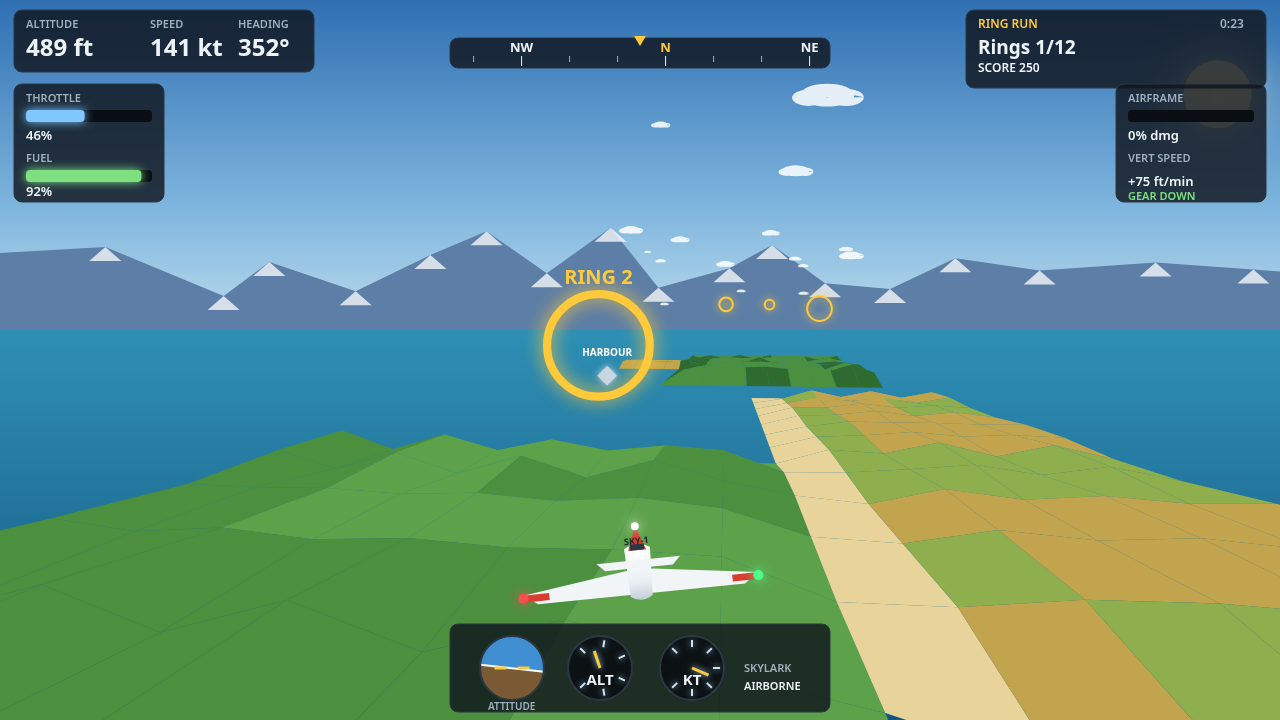
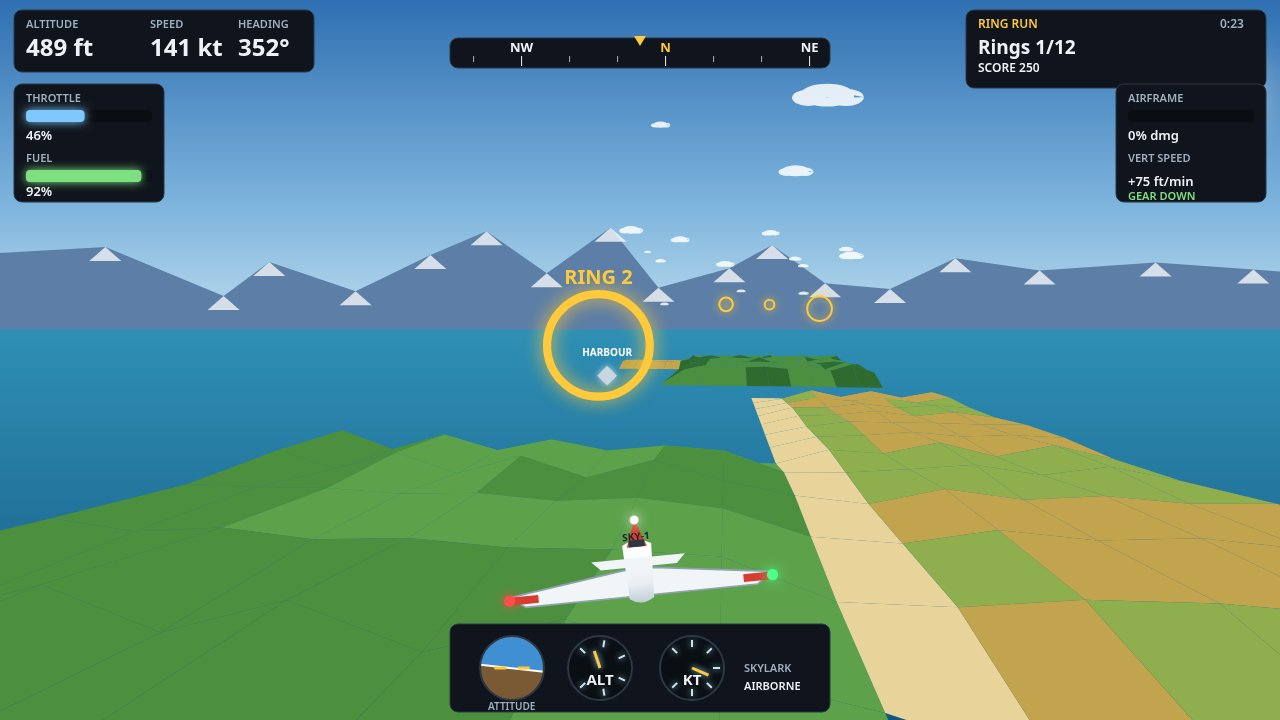
Round 2: runway reads, clean landing shot, no more giant ring
- Render the runways as explicit projected quads (surface, edge lines,
  threshold bars): the 28 m strip fell between the 60 m ground samples
  and was invisible, leaving only its number floating over grass.
- Landing shot now flies the Island Landing sortie on a real glide
  slope with stepped throttle and lands on the strip (score 1290, 0%
  damage) instead of barrelling in at 179 kt in a Ring Run HUD.
- Skip rings closer than 50 m: flying through a hoop used to paint a
  giant green circle over the whole end screen.
- HUD panels are solid now: the bright sun showed through the
  translucent panels as a dark disc. Also capped the runway-number font,
  which exploded as the plane reached the threshold.
- Skylark slightly larger with a wing outline so she reads against
  bright fields; fixed a lineWidth leak from the runway edges that
  turned the compass ticks into thick white bars.
- Regenerated all four screenshots from the game in headless Chromium.

diff --git a/game/src/render.js b/game/src/render.js
@@ -150,13 +150,66 @@ function drawGround(ctx, world, cam, plane, heading) {
     }
   }
 
-  drawRunwayMarkings(ctx, world, cam, heading, plane);
+  drawRunway(ctx, world, cam, heading, plane);
 }
 
-function drawRunwayMarkings(ctx, world, cam, heading, plane) {
-  // Centreline dashes and threshold bars on any runway in view.
+function drawRunway(ctx, world, cam, heading, plane) {
+  // The runway is painted as its own projected quad: the ground strips
+  // sample the ground every 60 m, so a 28 m wide strip falls between
+  // samples and never appears — the strip used to be invisible, with only
+  // its number floating over the grass. Painting it explicitly keeps the
+  // runway readable from the title screen to the final approach.
+  // Everything here is wrapped in save/restore: the edge lines are sized
+  // from the projection scale, which is huge when the plane sits on the
+  // strip, and that lineWidth must never leak into the HUD drawn after.
+  ctx.save();
   for (const runway of [world.homeRunway, world.farRunway]) {
     if (plane.z > runway.z1 + 200 || plane.z + VIEW_DISTANCE < runway.z0) continue;
+    const half = world.runwayHalfWidth;
+    // Clamp the near edge to just ahead of the camera, so a strip the plane
+    // sits on still paints from the bottom of the screen.
+    const zNear = Math.max(runway.z0, cam.z + 10);
+    const zFar = runway.z1;
+    const a = project(cam, runway.x - half, 2, zNear, heading);
+    const b = project(cam, runway.x + half, 2, zNear, heading);
+    const c = project(cam, runway.x + half, 2, zFar, heading);
+    const d = project(cam, runway.x - half, 2, zFar, heading);
+    if (a && b && c && d) {
+      ctx.fillStyle = PALETTE.runway;
+      ctx.beginPath();
+      ctx.moveTo(a.x, a.y);
+      ctx.lineTo(b.x, b.y);
+      ctx.lineTo(c.x, c.y);
+      ctx.lineTo(d.x, d.y);
+      ctx.closePath();
+      ctx.fill();
+      // Pale edge lines, so the strip reads against grass and sand.
+      ctx.strokeStyle = 'rgba(244,246,248,0.85)';
+      ctx.lineWidth = Math.max(1, Math.min(6, 1.4 * a.scale));
+      ctx.beginPath();
+      ctx.moveTo(a.x, a.y);
+      ctx.lineTo(d.x, d.y);
+      ctx.moveTo(b.x, b.y);
+      ctx.lineTo(c.x, c.y);
+      ctx.stroke();
+      // Threshold bars at both ends.
+      ctx.fillStyle = PALETTE.runwayMark;
+      for (const zt of [runway.z0 + 12, runway.z1 - 12]) {
+        const t0 = project(cam, runway.x - half + 2, 2.4, zt, heading);
+        const t1 = project(cam, runway.x + half - 2, 2.4, zt, heading);
+        const t2 = project(cam, runway.x + half - 2, 2.4, zt + 10, heading);
+        const t3 = project(cam, runway.x - half + 2, 2.4, zt + 10, heading);
+        if (!t0 || !t1 || !t2 || !t3) continue;
+        ctx.beginPath();
+        ctx.moveTo(t0.x, t0.y);
+        ctx.lineTo(t1.x, t1.y);
+        ctx.lineTo(t2.x, t2.y);
+        ctx.lineTo(t3.x, t3.y);
+        ctx.closePath();
+        ctx.fill();
+      }
+    }
+    // Centreline dashes and the runway number at the near threshold.
     ctx.fillStyle = PALETTE.runwayMark;
     for (let z = runway.z0 + 40; z < runway.z1 - 20; z += 90) {
       const p0 = project(cam, runway.x, 2.4, z, heading);
@@ -173,17 +226,24 @@ function drawRunwayMarkings(ctx, world, cam, heading, plane) {
     if (num && num.forward < 1500) {
       ctx.save();
       ctx.fillStyle = PALETTE.runwayMark;
-      ctx.font = `bold ${Math.max(10, 26 * num.scale)}px ${'system-ui, sans-serif'}`;
+      // Capped: the projection scale explodes as the plane reaches the
+      // threshold, and an uncapped number would fill the screen.
+      ctx.font = `bold ${Math.max(10, Math.min(56, 26 * num.scale))}px ${'system-ui, sans-serif'}`;
       ctx.textAlign = 'center';
       ctx.fillText(runway.number, num.x, num.y);
       ctx.restore();
     }
   }
+  ctx.restore();
 }
 
 function drawRing(ctx, cam, ring, heading, next) {
   const p = project(cam, ring.x, ring.y, ring.z, heading);
   if (!p || p.forward > VIEW_DISTANCE) return;
+  // Flying through a hoop puts it on the camera plane, where its radius
+  // explodes into a giant circle over the whole screen (it used to fill the
+  // end screen). Skip hoops closer than the nose.
+  if (p.forward < 50) return;
   const radius = 20 * p.scale;
   if (radius < 3) return;
   ctx.save();
@@ -236,13 +296,15 @@ function drawPlane(ctx, plane, time) {
   // Canvas rotation is clockwise for positive angles, and banking right is
   // a clockwise roll seen from behind, so the roll follows the bank sign.
   ctx.rotate(plane.bank * 0.9);
-  const scale = plane.airborne ? 1 : 0.92;
+  // A touch larger than round 1, so the Skylark reads at a glance against
+  // bright fields and sea instead of dissolving into them.
+  const scale = plane.airborne ? 1.12 : 1.02;
 
   // Soft shadow on the ground far below is skipped: the plane is the camera's
   // subject, drawn crisp against the sky and sea.
   ctx.scale(scale, scale);
 
-  // Wings.
+  // Wings, with a thin grey outline so they hold against bright grass.
   ctx.fillStyle = '#f2f5f7';
   ctx.beginPath();
   ctx.moveTo(-118, 6);
@@ -253,6 +315,9 @@ function drawPlane(ctx, plane, time) {
   ctx.lineTo(-104, 16);
   ctx.closePath();
   ctx.fill();
+  ctx.strokeStyle = '#8fa0ae';
+  ctx.lineWidth = 1.5;
+  ctx.stroke();
   ctx.fillStyle = '#d63c2f';
   ctx.fillRect(-118, 6, 26, 7);
   ctx.fillRect(92, 6, 26, 7);

diff --git a/game/src/shots.js b/game/src/shots.js
@@ -10,7 +10,7 @@ import { createPlane, stepFlight } from './physics.js';
 
 const START_SECONDS = 6;
 const PLAY_SECONDS = 24;
-const LANDING_SECONDS = 100;
+const LANDING_SECONDS = 150;
 
 /** Steer toward a world point, gently, the way a careful pilot would. */
 function steerToward(plane, target) {
@@ -37,19 +37,38 @@ function steerToward(plane, target) {
 function autopilotStep(plane, world, mission, mode) {
   let target;
   if (mode === 'landing') {
-    // Stay high over the mountain isle, then a gentle descent onto the strip.
+    // Final approach on a steady glide slope, aiming at a point that stays
+    // ahead of the nose: aiming at a fixed point used to make the plane
+    // orbit the runway centre instead of flying down it, and the old
+    // "55 m flat" target kept the plane barrelling in high and fast.
+    const z0 = world.farRunway.z0;
     const cruise = Math.max(60, 300 - Math.max(0, plane.z - 6000) * 0.09);
-    target = { x: 0, y: cruise, z: world.farRunway.z0 + 260 };
-    if (plane.z > world.farRunway.z0 - 900) target = { x: 0, y: 55, z: world.farRunway.z0 + 260 };
+    let y = cruise;
+    let tz = z0 + 260;
+    if (plane.z > z0 - 1500) {
+      // 80 m at 1500 m out, easing to 20 m over the threshold, then a
+      // gentle flare that puts the wheels down a third of the way along.
+      // The flare target sits below the strip: a proportional controller
+      // only ever approaches a fixed altitude, so aiming at the surface
+      // itself leaves the plane floating a few metres up past the end.
+      y = plane.z < z0
+        ? 20 + (z0 - plane.z) * 0.04
+        : -6;
+      tz = Math.max(z0 + 260, plane.z + 800);
+    }
+    target = { x: 0, y, z: tz };
   } else {
     const ring = world.rings.find((r) => !r.passed);
     target = ring ?? { x: 0, y: 160, z: world.farRunway.z0 + 260 };
   }
   const steer = steerToward(plane, target);
   // Throttle discipline: cruise at 70%, ease off near a ring so the turn
-  // tightens and the hoop is met, not overshot.
+  // tightens and the hoop is met, not overshot; on final, step down to
+  // 25% so the touchdown speed is under the safe 55 m/s.
   const dist = Math.hypot(target.x - plane.x, target.y - plane.y, target.z - plane.z);
-  const wantThrottle = mode === 'landing' ? 0.7 : (dist < 600 ? 0.45 : 0.7);
+  const wantThrottle = mode === 'landing'
+    ? (dist < 1200 ? 0.25 : dist < 2500 ? 0.45 : 0.7)
+    : (dist < 600 ? 0.45 : 0.7);
   const throttleDelta = plane.throttle < wantThrottle - 0.02 ? 1 : (plane.throttle > wantThrottle + 0.02 ? -1 : 0);
   return stepFlight(plane, world, mission, steer, throttleDelta, STEP);
 }
@@ -61,7 +80,10 @@ function autopilotStep(plane, world, mission, mode) {
 export function stageShot(name, game) {
   const { world } = game;
   world.reset();
-  const mission = createMission(MISSIONS[0]);
+  // The landing shot flies the Island Landing sortie, so its HUD reads
+  // "ISLAND LANDING — Land on North Isle" and the pointer aims at the far
+  // strip, instead of a Ring Run HUD over a landing approach.
+  const mission = createMission(name === 'landing' ? MISSIONS[1] : MISSIONS[0]);
   game.mission = mission;
   const plane = createPlane();
   game.plane = plane;

diff --git a/game/src/hud.js b/game/src/hud.js
@@ -10,7 +10,9 @@ const DEG = Math.PI / 180;
 
 function panel(ctx, x, y, w, h) {
   ctx.save();
-  ctx.fillStyle = 'rgba(16,21,29,0.82)';
+  // Solid, not translucent: the bright sun used to show through the panel
+  // as a dark disc wherever it sat behind the HUD.
+  ctx.fillStyle = PALETTE.panel;
   ctx.strokeStyle = PALETTE.panelEdge;
   ctx.lineWidth = 1;
   ctx.beginPath();
@@ -138,7 +140,7 @@ function compassStrip(ctx, headingDeg) {
   const cx = FIELD.width / 2;
   const y = 54;
   ctx.save();
-  ctx.fillStyle = 'rgba(16,21,29,0.82)';
+  ctx.fillStyle = PALETTE.panel;
   ctx.beginPath();
   ctx.roundRect(cx - 190, y - 16, 380, 30, 8);
   ctx.fill();
@@ -273,7 +275,7 @@ export function drawTitle(ctx, missions, selected, best) {
     const y = 250 + index * 96;
     const chosen = index === selected;
     ctx.save();
-    ctx.fillStyle = chosen ? 'rgba(255,201,60,0.16)' : 'rgba(16,21,29,0.78)';
+    ctx.fillStyle = chosen ? 'rgba(255,201,60,0.16)' : PALETTE.panel;
     ctx.strokeStyle = chosen ? PALETTE.accent : PALETTE.panelEdge;
     ctx.lineWidth = chosen ? 2 : 1;
     ctx.beginPath();
